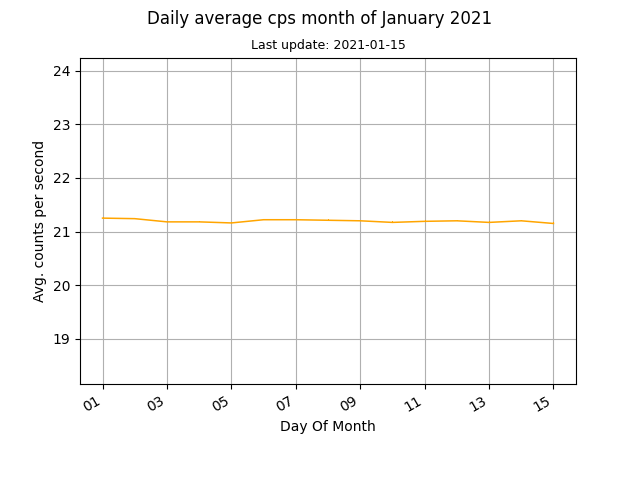
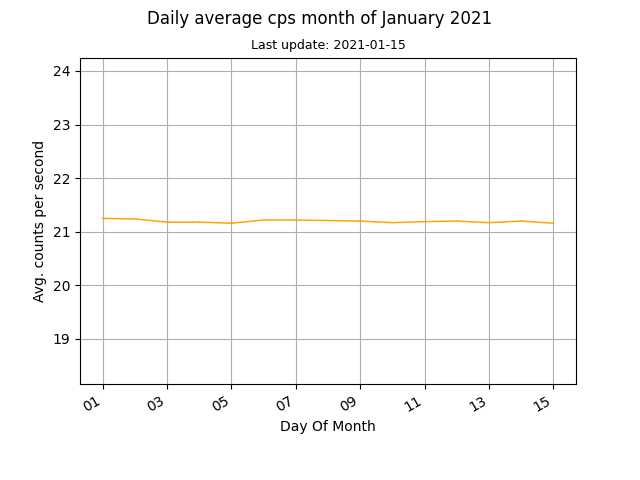
auto data update

Changed region(s): [[0.125, 0.25, 0.9062, 0.2812], [0.1562, 0.4375, 0.8125, 0.4688]]

diff --git a/docs/index.html b/docs/index.html
@@ -45,8 +45,8 @@
 	
 	<br>
 	
-	<p>Current counts per second (cps): 21.18</p>
-	<p>Last update: 2021-01-15, 14:36</p>
+	<p>Current counts per second (cps): 21.27</p>
+	<p>Last update: 2021-01-15, 14:51</p>
 
 	<p><a href="images/monthly.png"><img src="images/monthly.png" alt="Mothly avg cps data"></a><a href="images/daily.png"><img src="images/daily.png" alt="Daily avg cps data"></a></p>
 	
